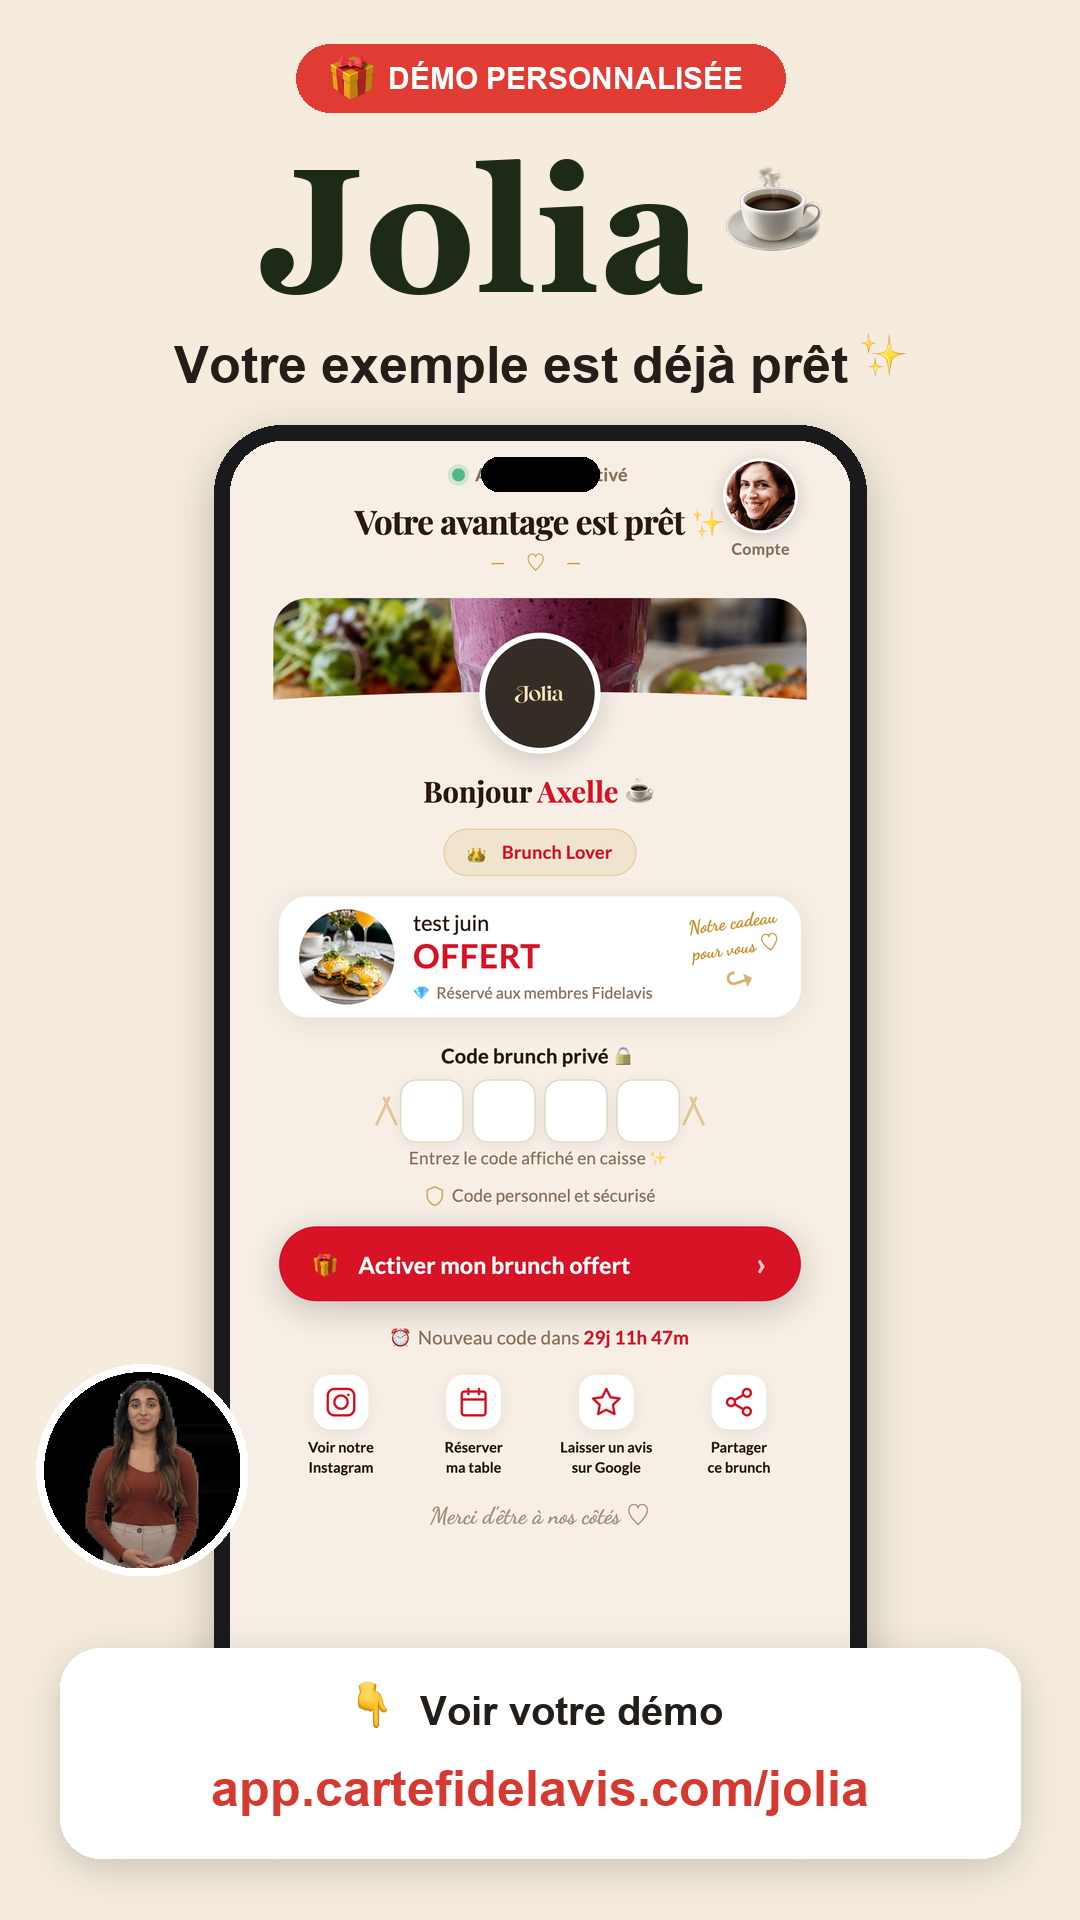
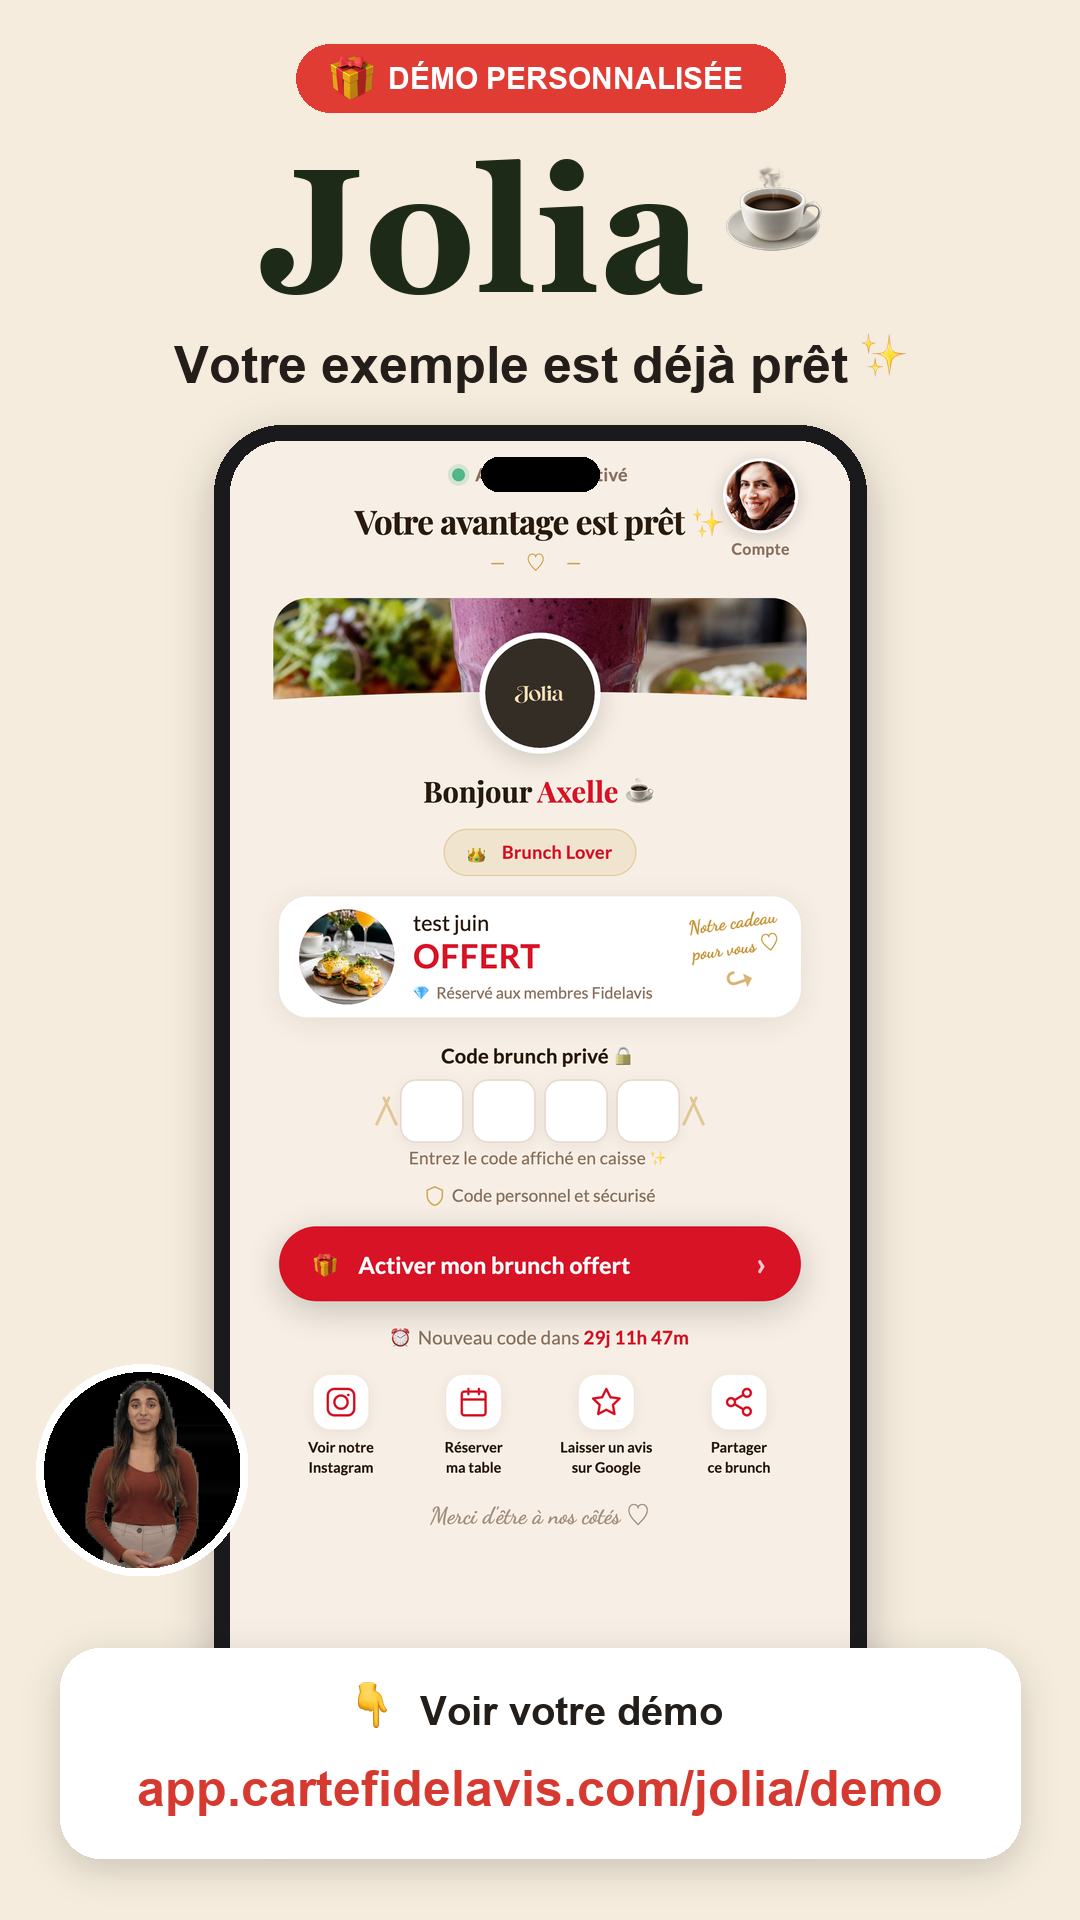
fix(story+video) : lien CTA pointe vers /demo (pas la prod qui exige inscription)

Changed region(s): [[0.1222, 0.9062, 0.8556, 0.9688]]

diff --git a/scripts/gen_dm_story.py b/scripts/gen_dm_story.py
@@ -270,8 +270,8 @@ def build_story(slug: str, name: str, wallet_url: str, video_bg: bool = False) -
     hx = W//2 - (hw + 16 + hand)//2
     paste_emoji(img, "👇", hand, hx, blk_y0+34)
     d.text((hx+hand+16, blk_y0+40), hint, font=fhint, fill=INK)
-    # Lien : réduit la police pour tenir dans le bloc blanc (slugs longs)
-    link = f"{PUBLIC}/{slug}"
+    # Lien : pointe vers la DÉMO (sans inscription), pas la prod
+    link = f"{PUBLIC}/{slug}/demo"
     flink = SANS_B(50)
     while tw(d, link, flink) > (blk_x1 - blk_x0) - 60 and flink.size > 26:
         flink = SANS_B(flink.size - 2)
